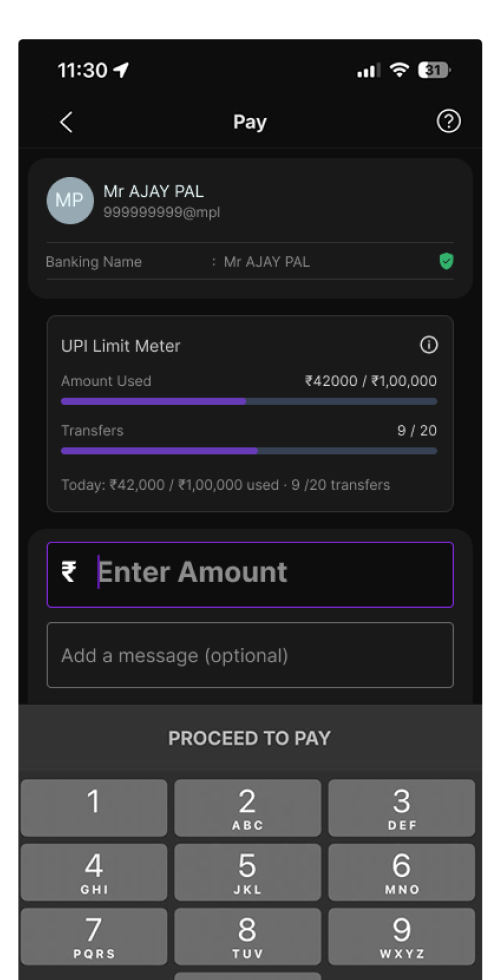
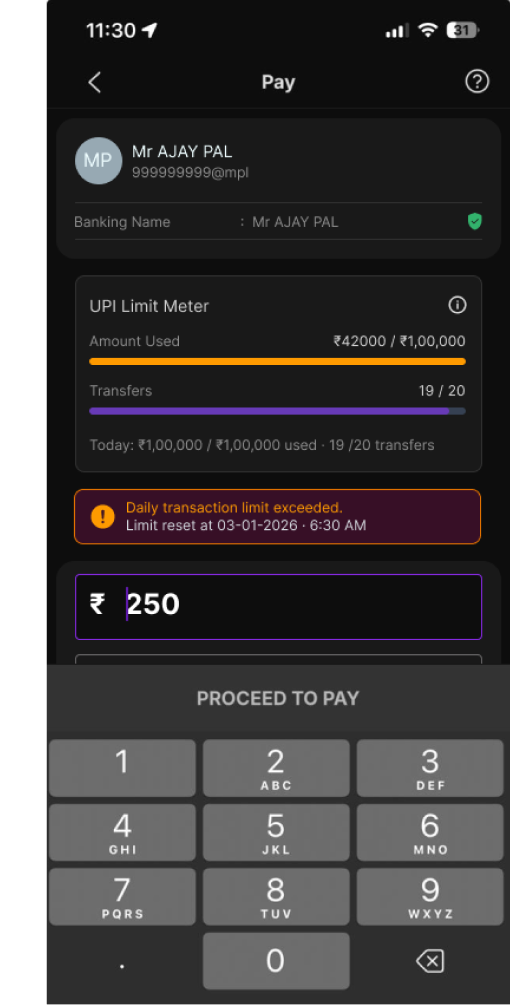
refactor(mockups): simplify mobile and web frames to clean border-contained viewports without artificial device bezels

diff --git a/adityaos/components/Portfolio/BreakTheGridShowcase.tsx b/adityaos/components/Portfolio/BreakTheGridShowcase.tsx
@@ -40,29 +40,29 @@ function BrowserFrame({
 
   return (
     <div
-      className={`w-full rounded-xl overflow-hidden border shadow-lg transition-all duration-300 group-hover/stage:shadow-2xl group-hover/stage:-translate-y-1 ${
+      className={`w-full rounded-xl overflow-hidden border shadow-sm transition-all duration-300 group-hover/stage:shadow-md ${
         isDark
-          ? "bg-[#111318] border-zinc-700/60 shadow-black/80"
-          : "bg-white border-stone-200/90 shadow-stone-300/40"
+          ? "bg-[#111318] border-zinc-800 shadow-black/40"
+          : "bg-white border-stone-200/90 shadow-stone-200/50"
       }`}
     >
       {/* Top Browser Bar */}
       <div
-        className={`px-3 py-2 border-b flex items-center justify-between gap-3 text-xs font-mono select-none ${
+        className={`px-3 py-1.5 border-b flex items-center justify-between gap-3 text-xs font-mono select-none ${
           isDark
-            ? "bg-[#181a20] border-zinc-800 text-zinc-400"
-            : "bg-stone-100 border-stone-200 text-stone-500"
+            ? "bg-[#14171f] border-zinc-800 text-zinc-400"
+            : "bg-stone-50 border-stone-200 text-stone-500"
         }`}
       >
-        <div className="flex items-center gap-1.5 shrink-0">
-          <span className="w-2.5 h-2.5 rounded-full bg-rose-400/80" />
-          <span className="w-2.5 h-2.5 rounded-full bg-amber-400/80" />
-          <span className="w-2.5 h-2.5 rounded-full bg-emerald-400/80" />
+        <div className="flex items-center gap-1.5 shrink-0 opacity-60">
+          <span className="w-2 h-2 rounded-full bg-current" />
+          <span className="w-2 h-2 rounded-full bg-current" />
+          <span className="w-2 h-2 rounded-full bg-current" />
         </div>
 
         {/* Minimalist Address Pill */}
         <div
-          className={`flex-1 max-w-[220px] mx-auto px-2.5 py-0.5 rounded-md text-[10px] flex items-center justify-center gap-1.5 truncate border ${
+          className={`px-2.5 py-0.5 rounded text-[10px] flex items-center justify-center gap-1.5 truncate border ${
             isDark
               ? "bg-[#0d0e12] border-zinc-800 text-zinc-300"
               : "bg-white border-stone-200 text-stone-700"
@@ -72,13 +72,11 @@ function BrowserFrame({
           <span className="truncate">{url}</span>
         </div>
 
-        <div className="w-10 shrink-0 flex justify-end">
-          <span className="w-1.5 h-1.5 rounded-full opacity-40 bg-current" />
-        </div>
+        <div className="w-6 shrink-0" />
       </div>
 
       {/* Frame Body */}
-      <div className="relative overflow-hidden bg-black/40 aspect-[16/10]">
+      <div className="relative overflow-hidden bg-stone-900/5 dark:bg-black/30 aspect-[16/10]">
         {children}
       </div>
     </div>
@@ -86,7 +84,7 @@ function BrowserFrame({
 }
 
 /* ========================================================================= */
-/* 2. Sleek Floating Mobile Device Frame */
+/* 2. Minimal Border-Contained Mobile Viewport */
 /* ========================================================================= */
 function MobileDeviceFrame({
   children,
@@ -98,23 +96,14 @@ function MobileDeviceFrame({
 
   return (
     <div
-      className={`w-full max-w-[210px] sm:max-w-[230px] mx-auto rounded-[28px] p-2 border-2 shadow-xl transition-all duration-300 group-hover/stage:-translate-y-1.5 group-hover/stage:shadow-2xl ${
+      className={`w-full max-w-[210px] sm:max-w-[230px] mx-auto rounded-2xl overflow-hidden border shadow-sm transition-all duration-300 group-hover/stage:shadow-md ${
         isDark
-          ? "bg-[#181a22] border-zinc-700/70 shadow-black/90"
-          : "bg-stone-200 border-stone-300 shadow-stone-300/50"
+          ? "bg-[#0f1117] border-zinc-800 shadow-black/50"
+          : "bg-stone-100 border-stone-200 shadow-stone-200/60"
       }`}
     >
-      <div className="relative rounded-[20px] overflow-hidden bg-black border border-black/40 aspect-[9/18]">
-        {/* Dynamic Island Pill */}
-        <div className="absolute top-2 left-1/2 -translate-x-1/2 w-14 h-3.5 bg-black rounded-full z-20 flex items-center justify-center">
-          <div className="w-2 h-2 rounded-full bg-zinc-900 border border-zinc-800 mr-1.5" />
-          <div className="w-1.5 h-1.5 rounded-full bg-blue-900/40" />
-        </div>
-
-        {/* Screen Content */}
-        <div className="w-full h-full overflow-hidden flex flex-col">
-          {children}
-        </div>
+      <div className="relative overflow-hidden aspect-[9/18] w-full">
+        {children}
       </div>
     </div>
   );

diff --git a/components/Portfolio/BreakTheGridShowcase.tsx b/components/Portfolio/BreakTheGridShowcase.tsx
@@ -40,29 +40,29 @@ function BrowserFrame({
 
   return (
     <div
-      className={`w-full rounded-xl overflow-hidden border shadow-lg transition-all duration-300 group-hover/stage:shadow-2xl group-hover/stage:-translate-y-1 ${
+      className={`w-full rounded-xl overflow-hidden border shadow-sm transition-all duration-300 group-hover/stage:shadow-md ${
         isDark
-          ? "bg-[#111318] border-zinc-700/60 shadow-black/80"
-          : "bg-white border-stone-200/90 shadow-stone-300/40"
+          ? "bg-[#111318] border-zinc-800 shadow-black/40"
+          : "bg-white border-stone-200/90 shadow-stone-200/50"
       }`}
     >
       {/* Top Browser Bar */}
       <div
-        className={`px-3 py-2 border-b flex items-center justify-between gap-3 text-xs font-mono select-none ${
+        className={`px-3 py-1.5 border-b flex items-center justify-between gap-3 text-xs font-mono select-none ${
           isDark
-            ? "bg-[#181a20] border-zinc-800 text-zinc-400"
-            : "bg-stone-100 border-stone-200 text-stone-500"
+            ? "bg-[#14171f] border-zinc-800 text-zinc-400"
+            : "bg-stone-50 border-stone-200 text-stone-500"
         }`}
       >
-        <div className="flex items-center gap-1.5 shrink-0">
-          <span className="w-2.5 h-2.5 rounded-full bg-rose-400/80" />
-          <span className="w-2.5 h-2.5 rounded-full bg-amber-400/80" />
-          <span className="w-2.5 h-2.5 rounded-full bg-emerald-400/80" />
+        <div className="flex items-center gap-1.5 shrink-0 opacity-60">
+          <span className="w-2 h-2 rounded-full bg-current" />
+          <span className="w-2 h-2 rounded-full bg-current" />
+          <span className="w-2 h-2 rounded-full bg-current" />
         </div>
 
         {/* Minimalist Address Pill */}
         <div
-          className={`flex-1 max-w-[220px] mx-auto px-2.5 py-0.5 rounded-md text-[10px] flex items-center justify-center gap-1.5 truncate border ${
+          className={`px-2.5 py-0.5 rounded text-[10px] flex items-center justify-center gap-1.5 truncate border ${
             isDark
               ? "bg-[#0d0e12] border-zinc-800 text-zinc-300"
               : "bg-white border-stone-200 text-stone-700"
@@ -72,13 +72,11 @@ function BrowserFrame({
           <span className="truncate">{url}</span>
         </div>
 
-        <div className="w-10 shrink-0 flex justify-end">
-          <span className="w-1.5 h-1.5 rounded-full opacity-40 bg-current" />
-        </div>
+        <div className="w-6 shrink-0" />
       </div>
 
       {/* Frame Body */}
-      <div className="relative overflow-hidden bg-black/40 aspect-[16/10]">
+      <div className="relative overflow-hidden bg-stone-900/5 dark:bg-black/30 aspect-[16/10]">
         {children}
       </div>
     </div>
@@ -86,7 +84,7 @@ function BrowserFrame({
 }
 
 /* ========================================================================= */
-/* 2. Sleek Floating Mobile Device Frame */
+/* 2. Minimal Border-Contained Mobile Viewport */
 /* ========================================================================= */
 function MobileDeviceFrame({
   children,
@@ -98,23 +96,14 @@ function MobileDeviceFrame({
 
   return (
     <div
-      className={`w-full max-w-[210px] sm:max-w-[230px] mx-auto rounded-[28px] p-2 border-2 shadow-xl transition-all duration-300 group-hover/stage:-translate-y-1.5 group-hover/stage:shadow-2xl ${
+      className={`w-full max-w-[210px] sm:max-w-[230px] mx-auto rounded-2xl overflow-hidden border shadow-sm transition-all duration-300 group-hover/stage:shadow-md ${
         isDark
-          ? "bg-[#181a22] border-zinc-700/70 shadow-black/90"
-          : "bg-stone-200 border-stone-300 shadow-stone-300/50"
+          ? "bg-[#0f1117] border-zinc-800 shadow-black/50"
+          : "bg-stone-100 border-stone-200 shadow-stone-200/60"
       }`}
     >
-      <div className="relative rounded-[20px] overflow-hidden bg-black border border-black/40 aspect-[9/18]">
-        {/* Dynamic Island Pill */}
-        <div className="absolute top-2 left-1/2 -translate-x-1/2 w-14 h-3.5 bg-black rounded-full z-20 flex items-center justify-center">
-          <div className="w-2 h-2 rounded-full bg-zinc-900 border border-zinc-800 mr-1.5" />
-          <div className="w-1.5 h-1.5 rounded-full bg-blue-900/40" />
-        </div>
-
-        {/* Screen Content */}
-        <div className="w-full h-full overflow-hidden flex flex-col">
-          {children}
-        </div>
+      <div className="relative overflow-hidden aspect-[9/18] w-full">
+        {children}
       </div>
     </div>
   );
